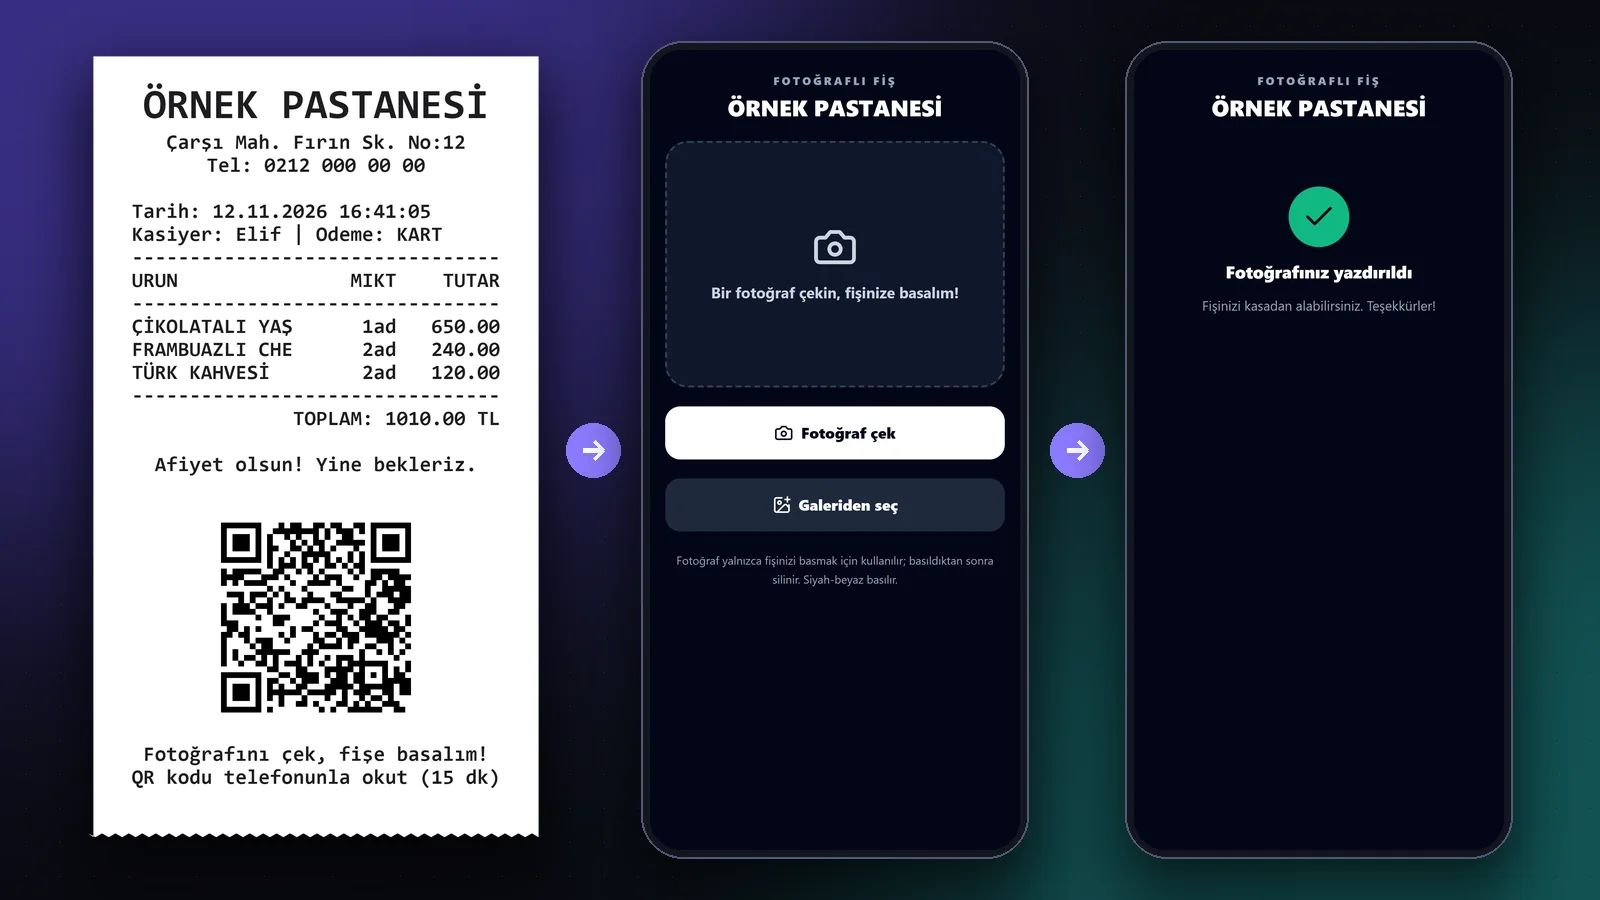
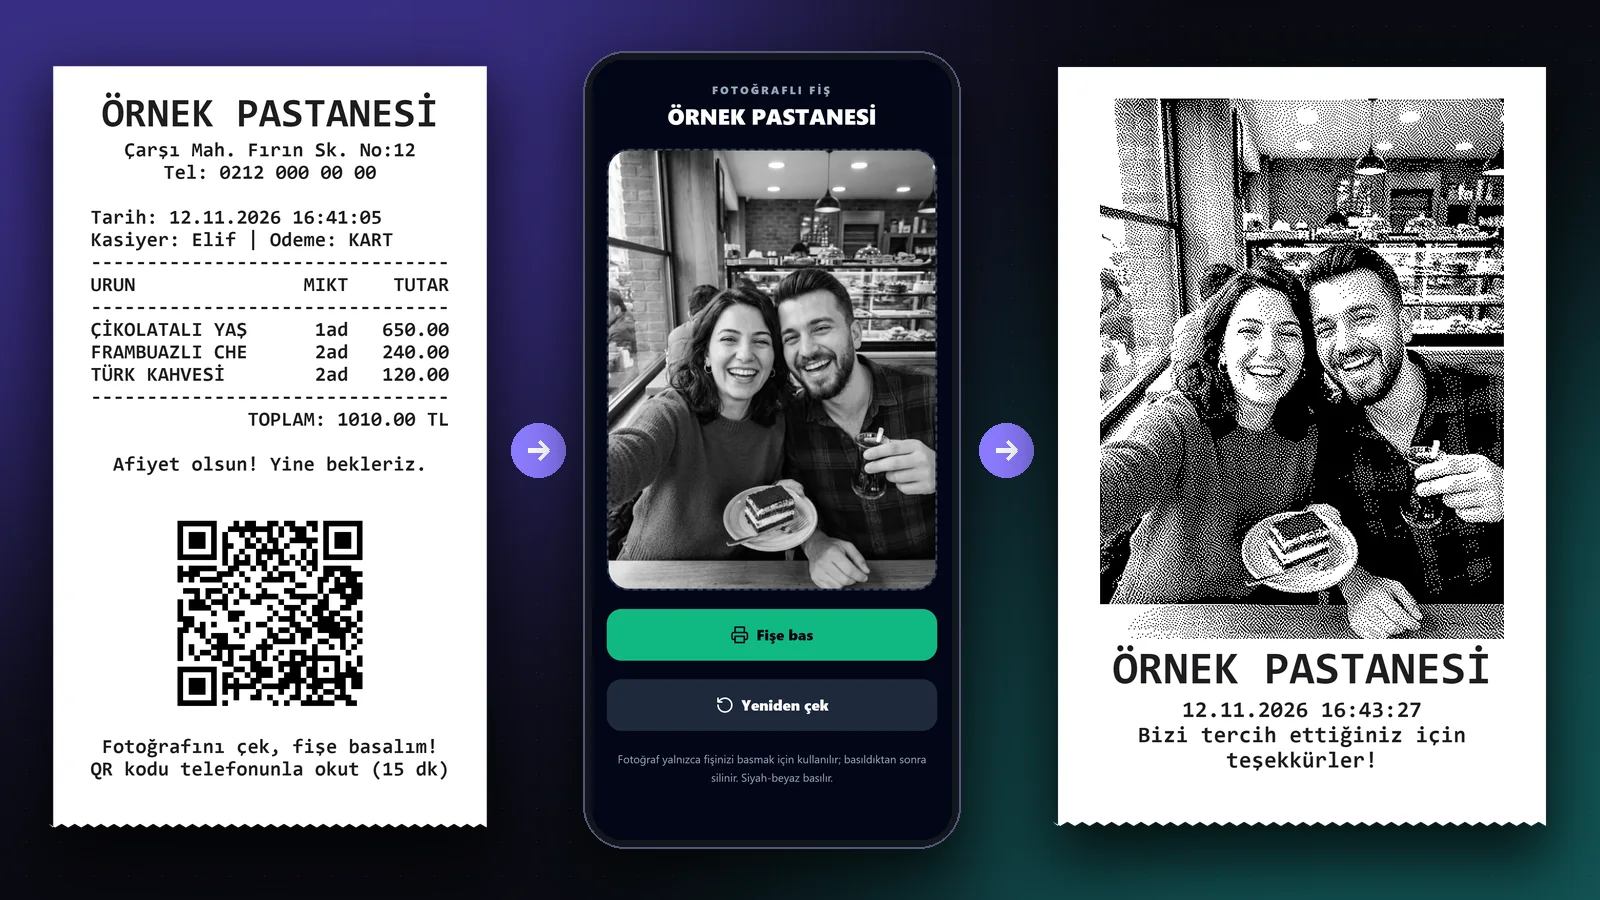
Add AI-generated photo receipt images to the FK POS gallery
Photo receipt flow now shows the whole story (QR on the receipt, customer
photo on the phone, photo printed on the receipt) plus the phone steps.
The card note states the people in these images are AI-generated.

diff --git a/js/data.js b/js/data.js
@@ -66,9 +66,9 @@ window.PROJECTS = [
     ],
     stack: ['LLM tool calling', 'Groq', 'Whisper', 'Vision AI', 'React', 'TypeScript', 'Tauri', 'Rust', 'Supabase', 'Edge Functions', 'PostgreSQL', 'Windows'],
     note: {
-      en: 'Screenshots use fictional demo data.',
-      tr: 'Ekran görüntülerinde uydurma demo verisi kullanılmıştır.',
-      ru: 'На скриншотах — вымышленные демонстрационные данные.'
+      en: 'Screenshots use fictional demo data; the people in the photo-receipt images are AI-generated.',
+      tr: 'Ekran görüntülerinde uydurma demo verisi kullanılmıştır; fotoğraflı fiş görsellerindeki kişiler yapay zekâ ile üretilmiştir.',
+      ru: 'На скриншотах — вымышленные демонстрационные данные; люди на снимках фото-чека созданы ИИ.'
     },
     link: { url: 'https://fkposyazilim.com', label: 'fkposyazilim.com', type: 'site' },
     frame: 'fkposyazilim.com',
@@ -79,7 +79,8 @@ window.PROJECTS = [
       'assets/img/fkpos/goods-receipt.webp',
       'assets/img/fkpos/phone-assistant.webp',
       'assets/img/fkpos/phone-panel.webp',
-      'assets/img/fkpos/photo-receipt.webp'
+      'assets/img/fkpos/photo-receipt.webp',
+      'assets/img/fkpos/photo-receipt-steps.webp'
     ],
     captions: {
       en: [
@@ -89,7 +90,8 @@ window.PROJECTS = [
         'Goods receipt from an invoice photo — nothing changes until you approve',
         'Phone assistant: questions, sales suggestions and goods receipt',
         'Remote owner panel: today, history and dark mode',
-        'Photo receipt: QR on the receipt → photo on the phone → printed on the receipt'
+        'Photo receipt: QR on the receipt → customer photo on the phone → printed in black and white',
+        'Photo receipt on the phone: choose a photo, press print, done'
       ],
       tr: [
         'FK Asistan kasada ve telefonda',
@@ -98,7 +100,8 @@ window.PROJECTS = [
         'Fatura fotoğrafından mal kabul — siz onaylamadan hiçbir şey değişmez',
         'Telefonda asistan: sorular, satış önerileri ve mal kabul',
         'Uzaktan işletme sahibi paneli: bugün, geçmiş ve karanlık mod',
-        'Fotoğraflı fiş: fişteki QR → telefonda fotoğraf → fişe basılır'
+        'Fotoğraflı fiş: fişteki QR → müşterinin telefonundaki fotoğraf → siyah-beyaz fişe basılır',
+        'Telefonda fotoğraflı fiş: fotoğrafı seç, bas, tamam'
       ],
       ru: [
         'FK Asistan на кассе и на телефоне',
@@ -107,7 +110,8 @@ window.PROJECTS = [
         'Приёмка товара по фото накладной — ничего не меняется без вашего подтверждения',
         'Ассистент на телефоне: вопросы, рекомендации по продажам и приёмка товара',
         'Удалённая панель владельца: сегодня, история и тёмная тема',
-        'Фото на чеке: QR на чеке → снимок на телефоне → печать на чеке'
+        'Фото на чеке: QR на чеке → фото клиента на телефоне → чёрно-белая печать на чеке',
+        'Фото-чек на телефоне: выбрать снимок, нажать печать, готово'
       ]
     }
   },
